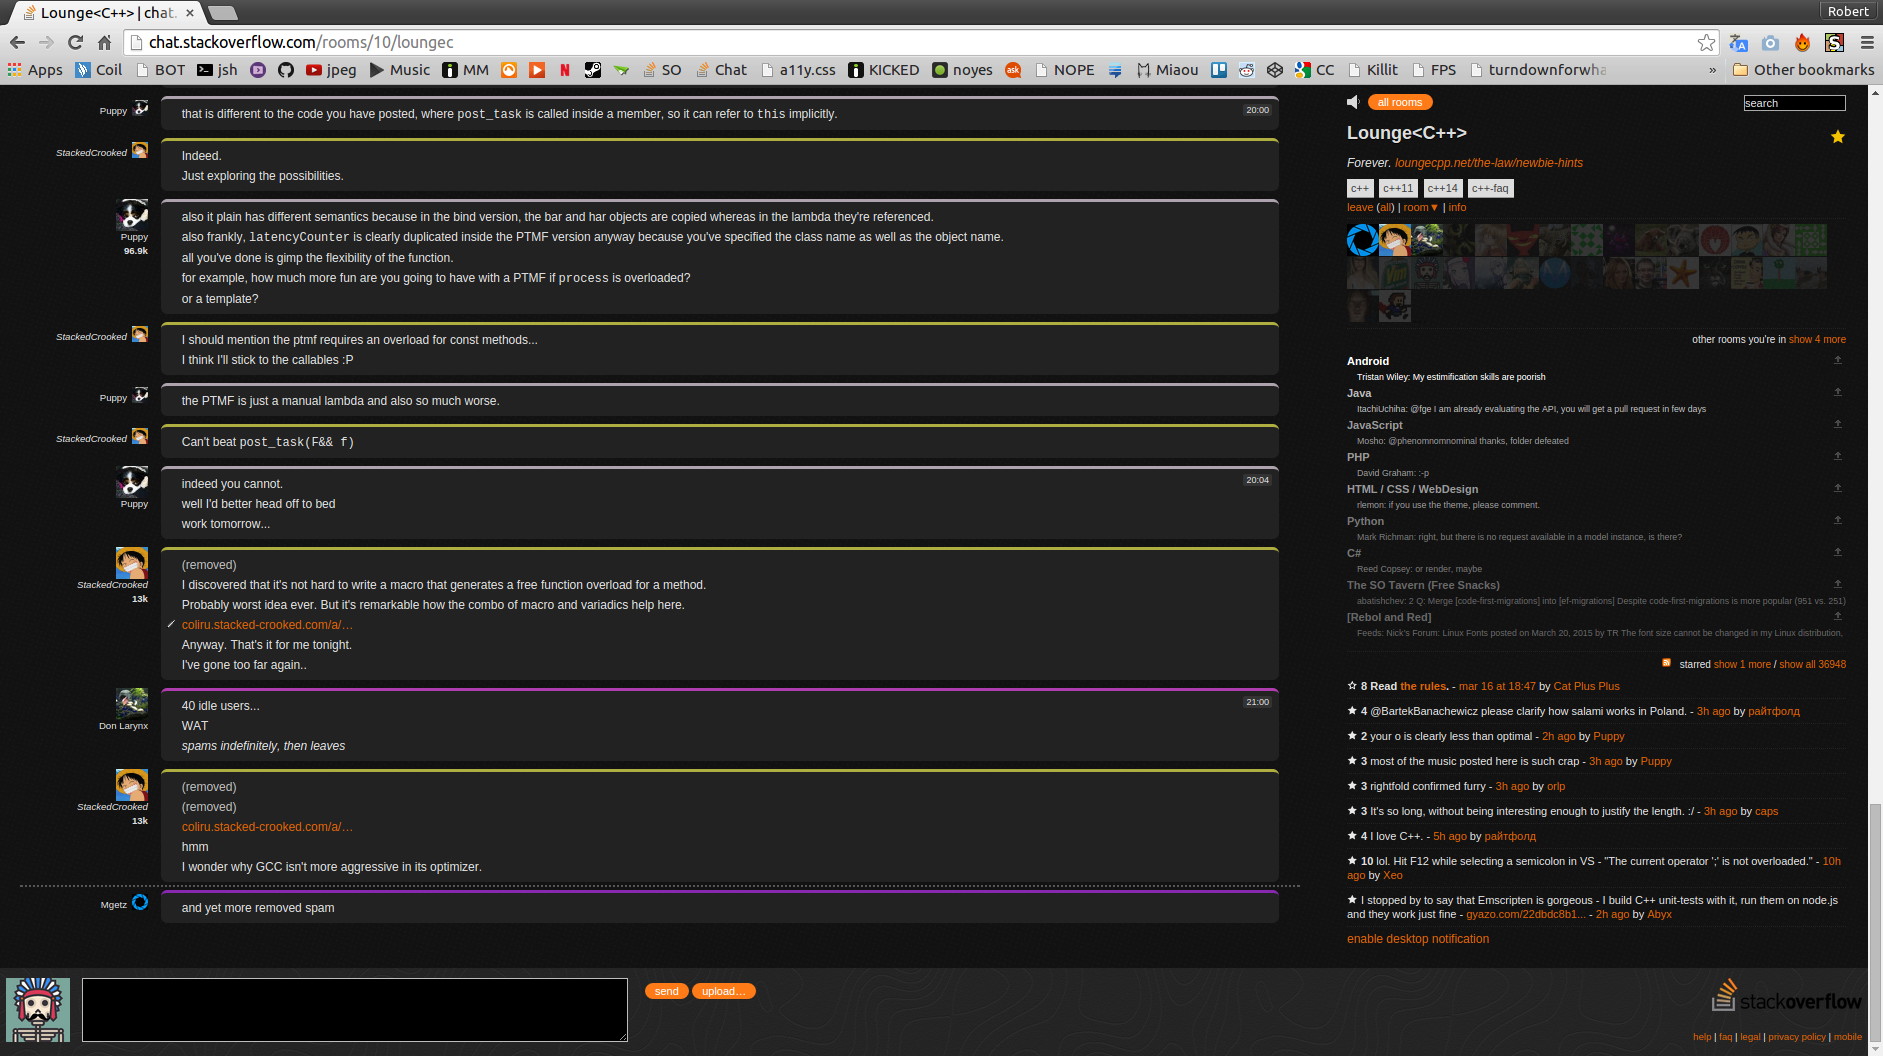
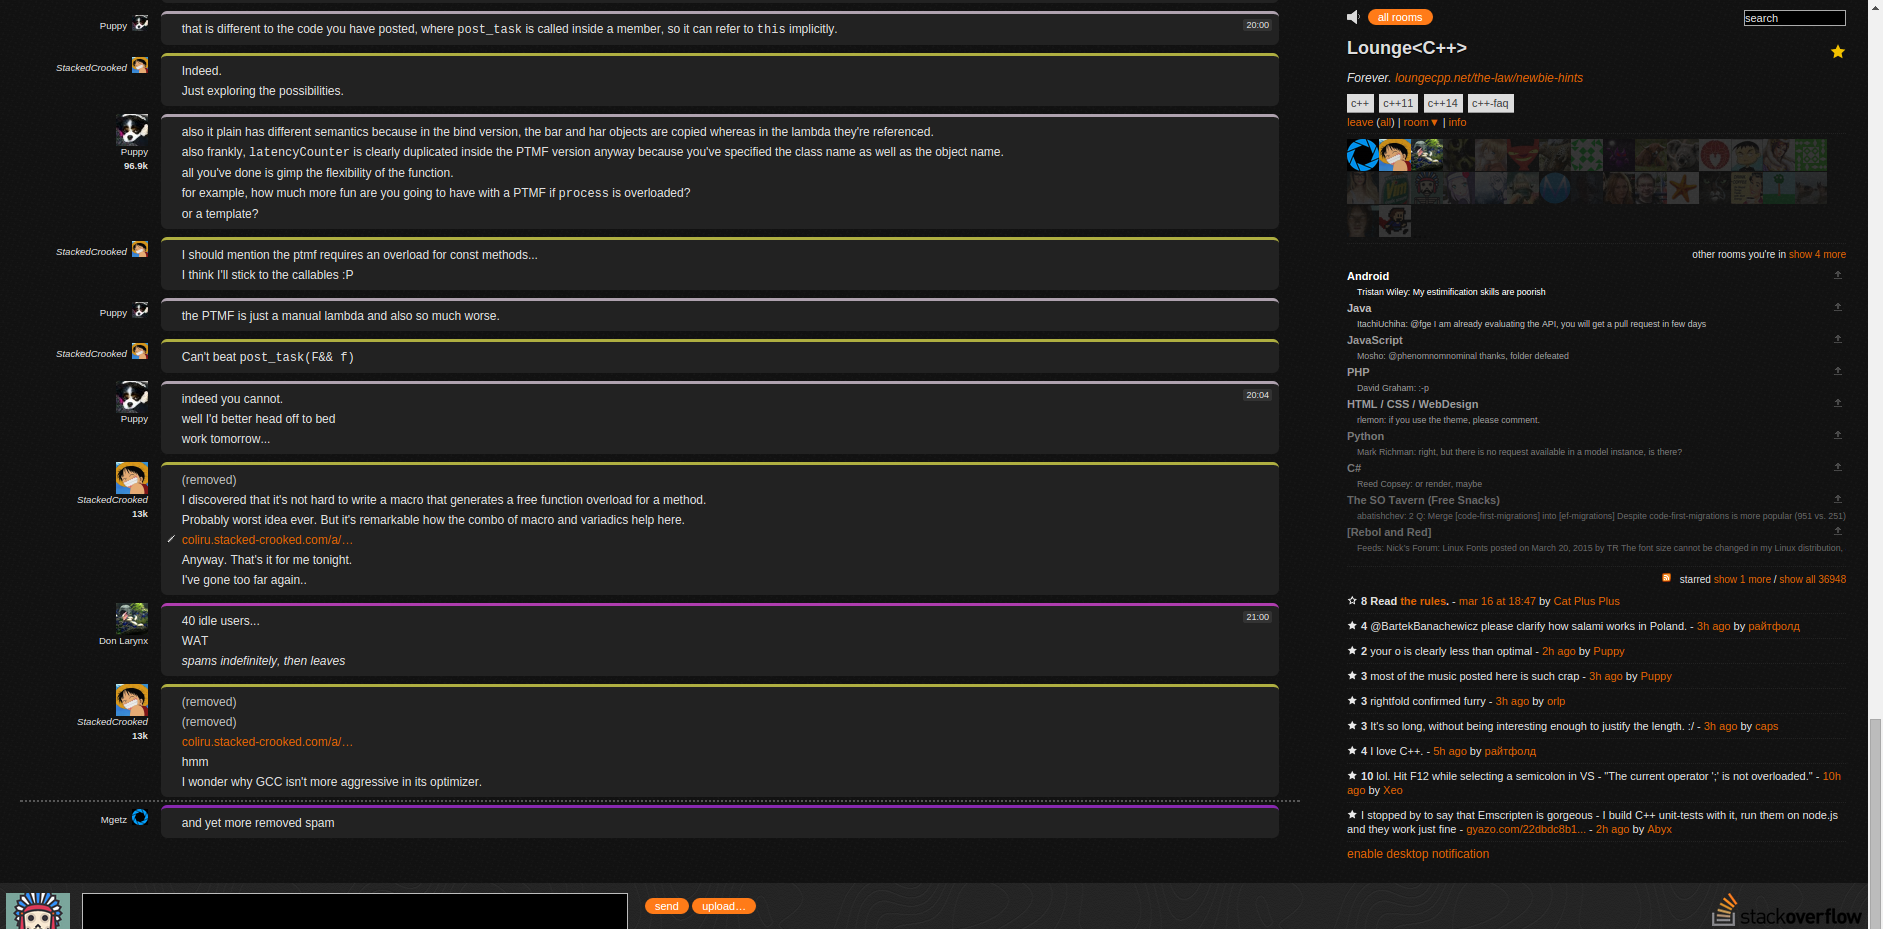
bad image

diff --git a/README.md b/README.md
@@ -4,7 +4,7 @@
 
 restyled Olivers original and added a bunch of JS "features".   
   
-![](http://i.imgur.com/DsLRRsy.png)
+![](http://i.imgur.com/xxMPtoI.png)
 
 Only tested in Chrome. FireFox is on the roadmap. IE is smelly and will not get support. 
 
